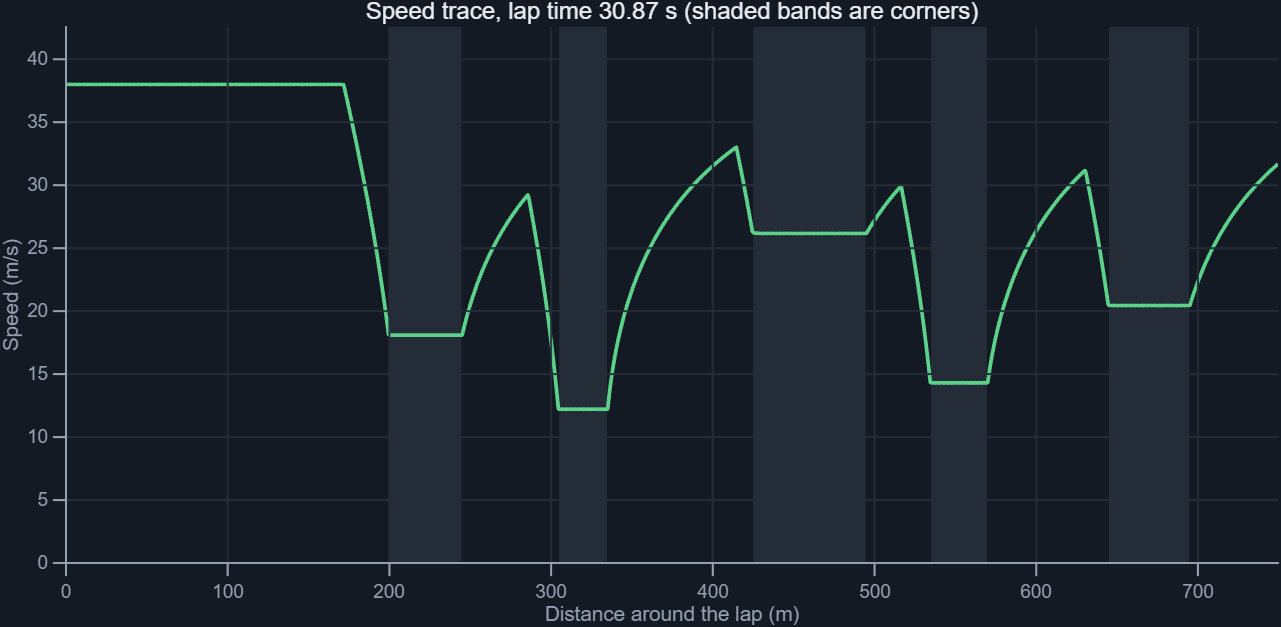
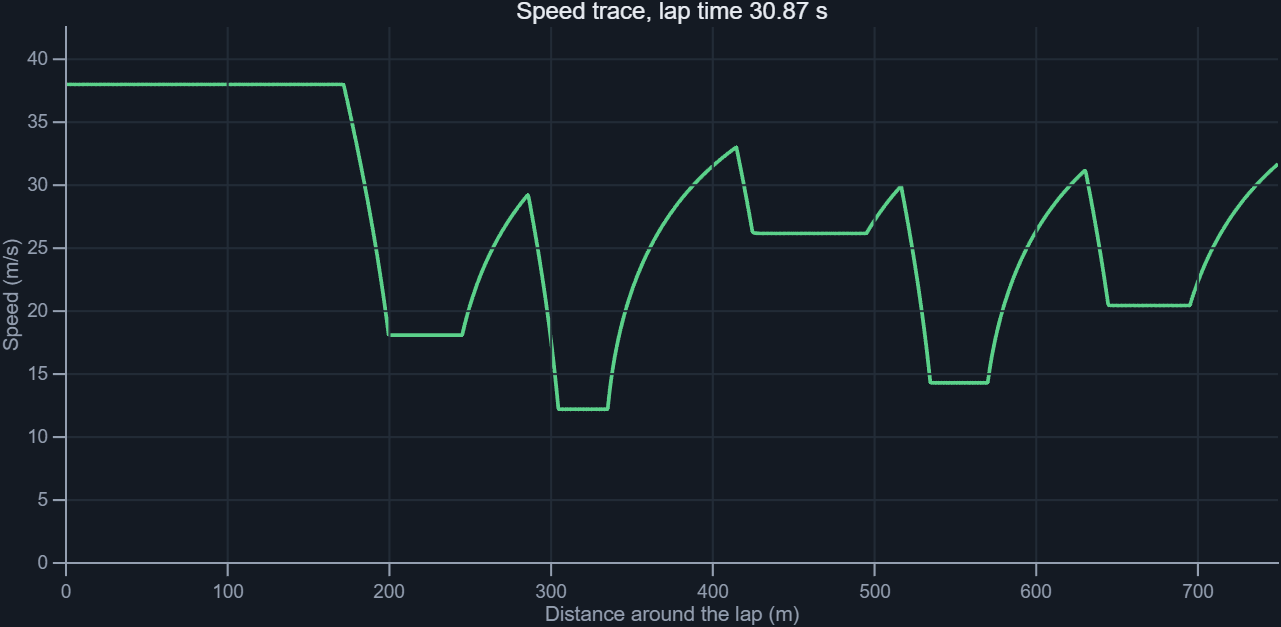
Add FSUK 2026 win; rewrite build page; drop corner shading; full flume photo
FSUK Simulator Championship 2026
Added the 1st overall result, leading the Formula Student stats strip
ahead of the 2025 second place. Propagated to the results paragraph,
the homepage card, the CV experience bullet and the CV achievements
list, so the site does not state two different bests.

How This Site Was Built, rewritten
It read as an essay arguing for its own existence rather than a page
a hiring manager could skim. Cut from 1,388 words to 598, and
restructured around what the site is actually made of:

- Removed the stat strip entirely. Kilobyte counts, line counts and a
  dependency count of zero are not things a recruiter is assessing.
- Removed the three-paragraph "why no framework" argument and the
  "learning the workflow" section.
- Replaced with a Components table (markup, interactivity, charts,
  typography, version control, hosting, analytics) and a short "What
  I built" list covering the solver port, the canvas charts, the
  shared figure pipeline, accessibility, SEO and performance.
- Limitations kept but trimmed to four plain lines.

Corner shading removed
The grey bands behind the speed traces duplicated information the
trace itself already carries: a corner is visible as a dip in speed,
and the brake trace below marks it again. Removed from both the
Python and MATLAB speed traces, with the captions and alt text
updated to match.

Flume image
The thumbnail was a 16:9 crop of a source frame that was already
[…]

Changed region(s): [[0.281, 0.0, 0.7806, 0.0303]]

diff --git a/about-this-site.html b/about-this-site.html
@@ -54,7 +54,7 @@
     <a href="index.html#projects" class="back">&larr; Back to projects</a>
 
     <h1 class="project-title">How This Site Was Built</h1>
-    <p class="project-hook">Every page here is hand-written HTML, CSS and JavaScript. No framework, no build step, no package manager, no dependencies to install. This page explains why that was the right choice and what it cost.</p>
+    <p class="project-hook">Hand-written HTML, CSS and JavaScript, version-controlled with Git and deployed on GitHub Pages. No framework, no build step, no dependencies.</p>
 
     <p class="availability"><strong>Seeking graduate engineering roles.</strong> <span class="sep">|</span> Graduating July 2027 <span class="sep">|</span> <a href="mailto:veerphatak@gmail.com">Get in touch</a></p>
 
@@ -62,79 +62,56 @@
       <span class="tag">HTML</span>
       <span class="tag">CSS</span>
       <span class="tag">JavaScript</span>
+      <span class="tag">Python</span>
       <span class="tag">Git</span>
       <span class="tag">GitHub Pages</span>
       <span class="tag">Accessibility</span>
       <span class="tag">SEO</span>
     </div>
 
-    <div class="stats four">
-      <div class="stat"><div class="num">0</div><div class="label">Dependencies, build steps and package managers</div></div>
-      <div class="stat"><div class="num">48 KB</div><div class="label">HTML, CSS and icon for the homepage, plus 73 KB of fonts</div></div>
-      <div class="stat"><div class="num">4,109</div><div class="label">Lines of HTML, CSS and JavaScript written by hand</div></div>
-      <div class="stat"><div class="num">10</div><div class="label">Content pages plus a 404, all static, one repository</div></div>
-    </div>
-
-    <h2>Why no framework</h2>
-    <p>The default answer for a portfolio in 2026 is a site builder or a React template. I went the other way deliberately, for three reasons.</p>
-    <p><strong>A portfolio about engineering should be engineered.</strong> It would be a strange thing to publish pages arguing that you should understand your own tools, built on a stack I could not explain. If someone asks me why the navigation is sticky, what the Kalman filter in the flume tracker is weighting, or why the lap solver needs three passes, I should be able to answer all three. Hand-writing the site keeps that true.</p>
-    <p><strong>A static site is the correct engineering answer to this problem.</strong> The requirement is a set of documents with some interactive figures, read mostly once by each visitor, updated by one person a few times a month. That requirement does not need a runtime, a bundler, a hydration step or a dependency tree. Reaching for those anyway would be solving a problem I do not have, which is the same instinct as adding suspension sliders to a point-mass lap model.</p>
-    <p><strong>It has to still work in two years.</strong> A static page with no dependencies has nothing to rot. There is no lockfile, no deprecated transitive dependency, and no build that stops working because a tool went to a new major version. The cost of that is paid up front in typing, which is a cost I would rather pay once.</p>
-
-    <h2>The stack</h2>
+    <h2>Components</h2>
     <table class="spec">
-      <tr><th>Markup and styling</th><td>Hand-written HTML5 and CSS. One shared stylesheet across every page, built on CSS custom properties and CSS Grid. No preprocessor, no utility framework, no CSS-in-JS.</td></tr>
-      <tr><th>Interactivity</th><td>Plain JavaScript in two files, <code>sim.js</code> and <code>montecarlo.js</code>, loaded directly by the page with <code>defer</code>. No bundler and no transpilation, so what the browser runs is the file in the repository, line for line.</td></tr>
-      <tr><th>Charts and figures</th><td>Static plots generated in Python with Matplotlib, committed as PNG. Interactive plots drawn to a <code>&lt;canvas&gt;</code> by my own code. No charting library.</td></tr>
-      <tr><th>Fonts</th><td>Two open-licence families, Space Grotesk for headings and Inter for body copy, subset to latin and served from this domain. About 73 KB across four files. No third-party font host, so no request leaves the site and nothing can be tracked by one. Both carry <code>font-display: swap</code> and the two most-used faces are preloaded, so text paints immediately in a fallback and never waits on a font.</td></tr>
-      <tr><th>Hosting and deployment</th><td>GitHub Pages, served from the <code>main</code> branch of a public repository. Deployment is <code>git push</code>. There is no CI pipeline, because there is nothing to build.</td></tr>
-      <tr><th>Analytics</th><td>GoatCounter, loaded asynchronously. Cookieless, no personal data, no cross-site identifier, and the only third-party request on the site.</td></tr>
+      <tr><th>Markup and styling</th><td>HTML5 and CSS, written by hand. One shared stylesheet across every page, built on CSS custom properties and CSS Grid. No preprocessor and no utility framework.</td></tr>
+      <tr><th>Interactivity</th><td>Plain JavaScript in two files, <code>sim.js</code> and <code>montecarlo.js</code>, loaded with <code>defer</code>. No bundler, so the browser runs the file in the repository.</td></tr>
+      <tr><th>Charts and figures</th><td>Static figures generated in Python with Matplotlib and committed as PNG. Interactive charts drawn to a <code>&lt;canvas&gt;</code> in JavaScript. No charting library.</td></tr>
+      <tr><th>Typography</th><td>Space Grotesk and Inter, both open licence, subset and served from this domain rather than a third-party font host.</td></tr>
+      <tr><th>Version control</th><td>Git, with the full history and every script public in the repository.</td></tr>
+      <tr><th>Hosting and deployment</th><td>GitHub Pages, served from the <code>main</code> branch. Deployment is <code>git push</code>.</td></tr>
+      <tr><th>Analytics</th><td>GoatCounter. Cookieless, and the only third-party request on the site.</td></tr>
     </table>
 
-    <h2>What had to be right</h2>
-    <p>Writing the markup is the easy part. Four things took real attention.</p>
-
-    <h3>Porting the solver to JavaScript</h3>
-    <p>The lap time model was written and validated in Python, and the <a href="f1-model.html">interactive version</a> re-solves it in the browser whenever a slider moves. That meant reimplementing the solver in a second language and getting the same answer out of it, which is a more demanding problem than it first looks: the two implementations have to agree to the point where any difference is floating-point noise rather than a difference in the physics.</p>
-    <p>The discipline that made it tractable was keeping the numerics separate from the drawing code, so the solver could be checked against the Python output on fixed inputs before any of it was wired to an interface. A result that changes when you redraw it is not a model.</p>
-
-    <h3>Accessibility, on purpose</h3>
-    <p>Every page has a skip link, a single <code>h1</code> and a heading order that does not jump levels, text alternatives on every image, visible focus styles via <code>:focus-visible</code>, and semantic landmarks rather than a page of unlabelled <code>div</code> elements. Interactive figures carry text alternatives describing the result, so the content survives if the canvas does not render. Animation is suppressed under <code>prefers-reduced-motion</code>.</p>
-    <p>The part most often skipped is colour. Figures are not encoded by colour alone, and the one status colour on the site ships with an icon and a text label beside it.</p>
-
-    <h3>Findable and shareable</h3>
-    <p>Each page carries its own meta description, canonical URL, Open Graph and Twitter card tags, so a link pasted into LinkedIn or an email renders as a card rather than a bare URL. The homepage includes JSON-LD <code>Person</code> structured data. There is a <code>sitemap.xml</code>, a <code>robots.txt</code> and a styled 404 page that routes back into the site rather than dead-ending.</p>
-
-    <h3>Keeping it fast</h3>
-    <p>The homepage is about 48 KB of HTML, CSS and icon before images, plus 73 KB of fonts on a first visit and nothing thereafter. Images carry explicit <code>width</code> and <code>height</code> so nothing reflows as they arrive, everything below the fold is <code>loading="lazy"</code>, and video is <code>preload="metadata"</code> so a page with four clips on it does not pull megabytes nobody asked for. None of that is clever. It is just the default behaviour you get when there is no framework between you and the browser.</p>
-
-    <h2>Learning the workflow</h2>
-    <p>I had no web development background when this started, and no Git background either. Publishing is now three commands, and understanding what they do mattered more than memorising them: a commit is a snapshot with a message explaining why, and a push makes the snapshot the published one. The same discipline that applies to a model also applies here, which is that a change you cannot describe is a change you should not have made.</p>
+    <h2>What I built</h2>
+    <ul>
+      <li><strong>A physics solver running in the browser.</strong> The lap time model was written and validated in Python. I ported the solver to JavaScript so the page re-solves the lap whenever a slider moves, and checked both implementations against the same fixed inputs so the answers agree.</li>
+      <li><strong>Interactive charts from scratch.</strong> Speed traces, strategy curves and a Monte Carlo distribution, drawn to canvas and redrawn on every parameter change, including axis scaling, legends and device-pixel-ratio handling.</li>
+      <li><strong>A figure pipeline shared across two languages.</strong> One palette file read by both the Python and MATLAB plotting scripts, so every figure on the site matches the page it sits in and can be regenerated from source.</li>
+      <li><strong>Accessibility.</strong> Skip links, a single <code>h1</code> per page and a heading order that does not skip levels, text alternatives on every image and figure, visible focus styles, and animation suppressed under <code>prefers-reduced-motion</code>. Nothing is encoded by colour alone.</li>
+      <li><strong>Search and link previews.</strong> Per-page meta descriptions and canonical URLs, Open Graph and Twitter card tags so a shared link renders as a card, JSON-LD structured data, a sitemap, a robots file and a 404 page that routes back into the site.</li>
+      <li><strong>Performance.</strong> Explicit image dimensions so nothing reflows on load, lazy loading below the fold, metadata-only video preloading, and preloaded fonts with <code>font-display: swap</code>.</li>
+    </ul>
 
     <div class="limits">
       <h2>Limitations</h2>
       <ul>
-        <li><strong>There are no automated tests.</strong> The JavaScript solver was checked against the Python output by hand on fixed inputs, which caught the errors that mattered, but there is nothing stopping a future edit silently changing a result. A small test file asserting a handful of known lap times is the obvious next step and does not exist yet.</li>
-        <li><strong>Shared markup is duplicated.</strong> The navigation and footer are copied into all eleven pages, so a change to either is an eleven-file edit. That is the honest cost of having no build step: I traded a template system for repetition, and every page footer on this site is evidence of the trade. At thirty pages it would be the wrong call. At eleven it is still cheaper than a toolchain.</li>
-        <li><strong>Dark mode only.</strong> The site does not respond to <code>prefers-color-scheme</code>, so a visitor who prefers a light interface does not get one. That is a gap rather than a decision.</li>
-        <li><strong>The navigation wraps on narrow screens.</strong> It stays usable and readable down to small phone widths, but below roughly 720 px the links reflow onto a second row instead of collapsing into a menu. It works. It is not elegant.</li>
-        <li><strong>No cross-browser test matrix.</strong> Developed and checked in Chrome and Firefox on Windows, and on mobile Safari. I have not tested it systematically across versions, so I would not claim more than that.</li>
+        <li><strong>No automated tests.</strong> The JavaScript solver was checked against the Python output by hand. Nothing currently stops a future edit changing a result silently.</li>
+        <li><strong>Shared markup is duplicated.</strong> The navigation and footer are copied into every page, so changing either is a multi-file edit. That is the cost of having no build step, and at this number of pages it is still the cheaper trade.</li>
+        <li><strong>Dark mode only.</strong> The site does not respond to <code>prefers-color-scheme</code>.</li>
+        <li><strong>Not tested across a browser matrix.</strong> Developed and checked in Chrome and Firefox on Windows, and on mobile Safari.</li>
       </ul>
     </div>
 
     <h2>Relevant skills</h2>
     <ul>
-      <li>Taking a project from nothing to deployed and publicly accessible, including the hosting and the release process.</li>
+      <li>Taking a project from nothing to deployed and publicly accessible, including hosting and the release process.</li>
       <li>Reimplementing a validated numerical model in a second language and verifying the two agree.</li>
-      <li>Version control with Git, and a deployment workflow I maintain myself.</li>
+      <li>Version control with Git and a deployment workflow I maintain myself.</li>
       <li>Building to accessibility and performance requirements rather than treating them as polish.</li>
-      <li>Choosing the simplest tool that meets the requirement, and being able to say what that choice cost.</li>
     </ul>
 
     <p>
       <a class="dl" href="https://github.com/veerphatak/veerphatak.github.io" target="_blank" rel="noopener">Browse the source of this site on GitHub</a>
     </p>
-    <p class="muted-note">The whole site, every page and every stylesheet, plus the Python and MATLAB behind the models. The FastF1 telemetry cache is deliberately excluded, so no Formula 1 data is redistributed here.</p>
+    <p class="muted-note">Every page and stylesheet, plus the Python and MATLAB behind the models and figures.</p>
 
     <nav class="pagenav" aria-label="Project navigation">
       <a class="prev" href="coursework.html"><span class="dir">&larr; Previous project</span><span class="ttl">Coursework &amp; Papers</span></a>

diff --git a/formula-student.html b/formula-student.html
@@ -70,7 +70,8 @@
       <strong>A note on what is shown here.</strong> The team's data, code and reports belong to Southampton University Formula Student and are not reproduced on this page. What follows describes my work and the methods I used. The simulation further down was written from scratch for this site on a synthetic track with generic vehicle parameters, and is labelled as such.
     </div>
 
-    <div class="stats">
+    <div class="stats four">
+      <div class="stat"><div class="num">1st</div><div class="label">FSUK Simulator Championship 2026</div></div>
       <div class="stat"><div class="num">2nd</div><div class="label">FSUK Simulator Championship 2025</div></div>
       <div class="stat"><div class="num">10th</div><div class="label">Overall at FSUK 2025</div></div>
       <div class="stat"><div class="num">3</div><div class="label">Seasons in the team</div></div>
@@ -91,7 +92,7 @@
     <p>Alongside the race engineering work I researched integrating the front roll hoop into the chassis for future cars, and presented the technical and feasibility findings to the department and to team management.</p>
 
     <h2>Results</h2>
-    <p>During my time with the team SUFST finished <strong>2nd in the FSUK Simulator Championship and lap time challenge in 2025</strong>, and <strong>10th overall at FSUK 2025</strong>. The simulator result is the one most directly connected to the setup and simulation work.</p>
+    <p>During my time with the team SUFST finished <strong>1st overall in the FSUK Simulator Championship in 2026</strong>, having finished <strong>2nd in the Simulator Championship and lap time challenge in 2025</strong>, and <strong>10th overall at FSUK 2025</strong>. The simulator results are the ones most directly connected to the setup and simulation work.</p>
 
     <h2>A representative model</h2>
     <p>The team's model is not mine to publish, so I wrote an equivalent one from scratch for this site. It is a quasi-steady lap time simulation with tyre degradation, on a synthetic track with generic vehicle parameters. The method is the one I used in the team, and the figures below are its output.</p>
@@ -112,8 +113,8 @@ end</code></pre>
     <p>Where that bracket falls to zero or below, the car is generating downforce faster than the corner demands it and is no longer grip limited there, so power and gearing set the speed instead. A forward pass then applies acceleration and a backward pass applies braking, both sharing tyre capacity with cornering through a friction ellipse. Lap time is the integral of ds/v.</p>
 
     <figure>
-      <img src="media/figures/lapsim-speed-trace.png" alt="Simulated speed around a lap, with corners shown as shaded bands." loading="lazy">
-      <figcaption>Simulated speed around the lap, 30.87 s. The shaded bands are corners, where the car sits on the lateral grip limit. Between them it accelerates until drag, power or the next braking point takes over.</figcaption>
+      <img src="media/figures/lapsim-speed-trace.png" alt="Simulated speed around a lap, dipping at each corner and recovering on the straights." loading="lazy">
+      <figcaption>Simulated speed around the lap, 30.87 s. Each dip is a corner, where the car sits on the lateral grip limit. Between them it accelerates until drag, power or the next braking point takes over.</figcaption>
     </figure>
 
     <h3>Tyre degradation</h3>

diff --git a/cv.html b/cv.html
@@ -158,7 +158,7 @@
         <ul>
           <li>Built lap time and tyre load and degradation simulation tools in Python, MATLAB and Excel to quantify setup trade-offs and prioritise high-impact changes before track testing.</li>
           <li>Broke down race and qualifying laps in MoTeC i2, correlating logged channel data and driver feedback against simulation output to inform setup and strategy decisions.</li>
-          <li>Ran sensitivity studies on setup variables and led data-driven setup choices, contributing to <strong>2nd in the FSUK Simulator Championship and 10th overall at FSUK 2025</strong>.</li>
+          <li>Ran sensitivity studies on setup variables and led data-driven setup choices, contributing to <strong>1st overall in the FSUK Simulator Championship in 2026</strong>, and to <strong>2nd in the Simulator Championship and 10th overall at FSUK 2025</strong>.</li>
           <li>Researched front roll hoop integration into the chassis and presented technical and feasibility findings to the department and team management.</li>
         </ul>
       </div>
@@ -231,6 +231,7 @@
       <h2>Achievements and Interests</h2>
       <div class="cv-entry">
         <ul class="cv-inline-list">
+          <li>1st overall, FSUK Simulator Championship 2026.</li>
           <li>2nd overall, FSUK lap time challenge and Simulator Championship 2025.</li>
           <li>Boyne Hill CC 1st XI wicketkeeper-batter. Sixteen years of competitive cricket. Captained Southampton University CC indoor team and outdoor 3rd XI.</li>
           <li>ECB and Berkshire qualified cricket coach. Qualified first aider. Sports Prefect, Reading School.</li>

diff --git a/index.html b/index.html
@@ -213,7 +213,7 @@
         <div class="card-media"><img src="media/thumbs/formula-student.jpg" alt="Lap time sensitivity to downforce and vehicle mass" loading="lazy" width="800" height="450"></div>
         <div class="card-body">
           <h3>Formula Student: Race Engineering</h3>
-          <p>Three seasons with Southampton University Formula Student. Lap-time and tyre degradation simulation, and MoTeC lap analysis used to inform setup and strategy decisions. 2nd in the FSUK Simulator Championship.</p>
+          <p>Three seasons with Southampton University Formula Student. Lap-time and tyre degradation simulation, and MoTeC lap analysis used to inform setup and strategy decisions. 1st in the FSUK Simulator Championship in 2026, 2nd in 2025.</p>
           <p class="card-tags">MoTeC i2 · Simulation · MATLAB · 2023-</p>
           <span class="arrow">View project →</span>
         </div>

diff --git a/f1-model.html b/f1-model.html
@@ -153,7 +153,7 @@
     <p>Mass, power and braking limits are publicly available. Grip, downforce and drag are not, so those three parameters are fitted to the measured speed trace. The remainder of the solution is determined by the physics and the circuit geometry.</p>
 
     <figure>
-      <img src="media/figures/f1-speed-trace.png" alt="Upper: measured and modelled speed around the lap with corners shaded. Lower: throttle, brake and DRS traces from the real car." loading="lazy">
+      <img src="media/figures/f1-speed-trace.png" alt="Upper: measured and modelled speed around the lap. Lower: throttle, brake and DRS traces from the real car." loading="lazy">
       <figcaption>The model (dashed) against Piastri's pole lap (solid), with the driver's real throttle, brake and DRS inputs below. Predicted lap time 89.197 s against an actual 89.841 s.</figcaption>
     </figure>
 

diff --git a/code/lap_time_simulation.m b/code/lap_time_simulation.m
@@ -198,21 +198,12 @@ P = sitePalette();
 f = figure('Color',P.surface,'Position',[100 100 1000 420],'InvertHardcopy','off');
 ax = axes(f); hold(ax,'on'); grid(ax,'on');
 
-% shade the corners so the trace can be read against the track
-inCorner = isfinite(radius);
-edges = diff([0; inCorner; 0]);
-starts = find(edges == 1); stops = find(edges == -1) - 1;
 yl = [0 max(speed)*1.12];
-for i = 1:numel(starts)
-    x = [distance(starts(i)) distance(stops(i)) distance(stops(i)) distance(starts(i))];
-    patch(ax, x, [yl(1) yl(1) yl(2) yl(2)], P.border, ...
-          'EdgeColor','none','HandleVisibility','off');
-end
 plot(ax, distance, speed, 'LineWidth', 1.8, 'Color', P.accent.fs);
 siteAxes(ax, P);
 ylim(ax, yl); xlim(ax, [0 distance(end)]);
 xlabel(ax,'Distance around the lap (m)'); ylabel(ax,'Speed (m/s)');
-title(ax, sprintf('Speed trace, lap time %.2f s (shaded bands are corners)', lapTime));
+title(ax, sprintf('Speed trace, lap time %.2f s', lapTime));
 exportgraphics(f, fullfile(outDir(),'lapsim-speed-trace.png'), 'Resolution', 150);
 close(f);
 end

diff --git a/code/f1-lapsim/f1_lap_model.py b/code/f1-lapsim/f1_lap_model.py
@@ -254,7 +254,6 @@ def main():
     ax = axes[0]
     ax.plot(d, v_real * 3.6, lw=2.0, color=P["reference"], label=f"Measured ({lap['Driver']} pole lap)")
     ax.plot(d, v_model * 3.6, lw=1.6, color=accent("f1"), ls="--", label="Physics model")
-    ax.fill_between(d, 0, 340, where=(R < 250), color=P["border"], alpha=0.85, label="Corner")
     # Apex speeds sit on a fixed baseline rather than hanging off each minimum.
     # Offsetting from the point itself puts them straight through the trace at
     # the fast corners, where the two curves are closest together.
@@ -264,7 +263,7 @@ def main():
     ax.set_ylabel("Speed (km/h)"); ax.set_ylim(0, 340)
     ax.set_title(f"{YEAR} {ses.event['EventName']}: model against measured pole lap "
                  f"({real_time:.3f} s actual, {model_time:.3f} s predicted)")
-    legend_above(ax, ncol=3); ax.grid(alpha=0.3)
+    legend_above(ax, ncol=2); ax.grid(alpha=0.3)
 
     ax2 = axes[1]
     ax2.plot(d, tel["Throttle"], color=series(5), lw=1.2, label="Throttle (%)")
